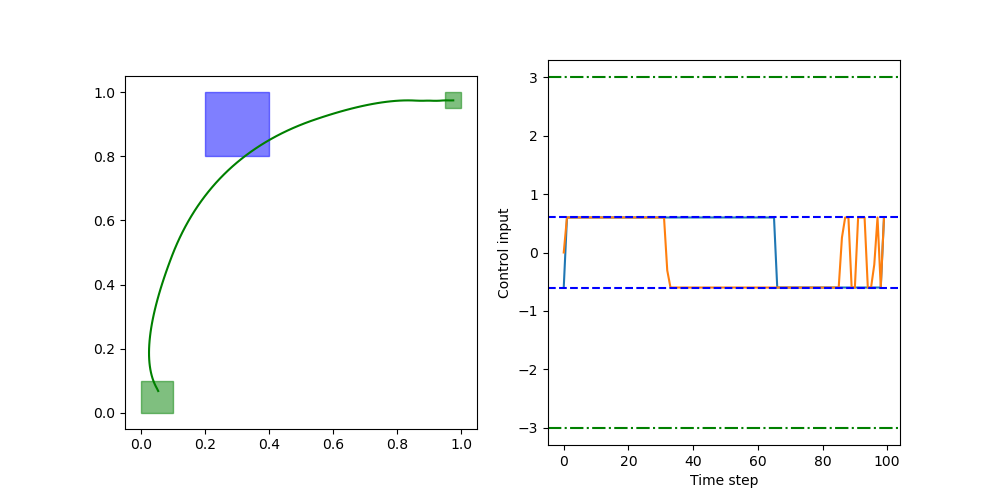
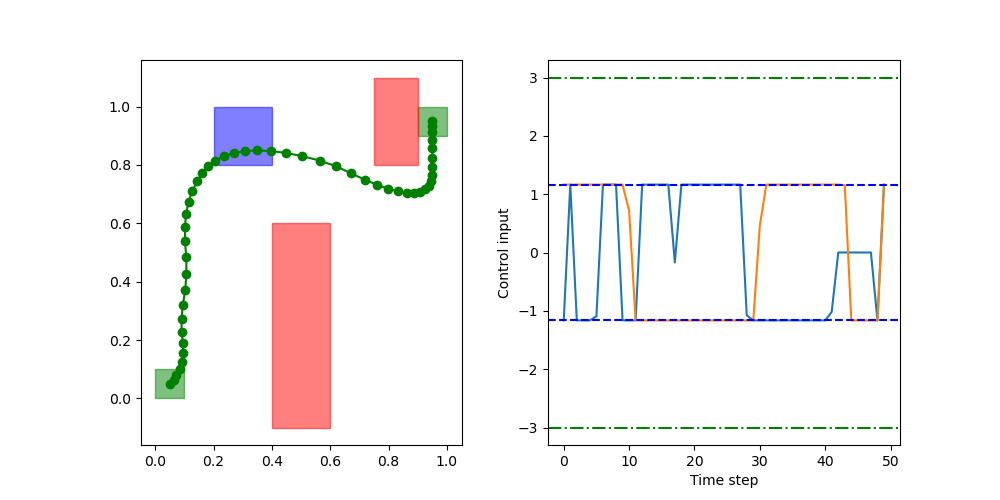
added negation for collision avoidance

diff --git a/Utilities/stl.py b/Utilities/stl.py
@@ -50,6 +50,9 @@ def quant_parse_operator(opt:gp.Model,pred:Pred, items):
     elif pred.type == "MU":
         quant_MU(opt,pred,items)
 
+    elif pred.type == "NEG":
+        quant_NEG(opt,pred,items)
+
     else:
         ValueError(f"Unknown operator {pred.type}")
 
@@ -59,7 +62,6 @@ def quant_AND(opt:gp.Model, pred:Pred, items):
                           name=f"rho_AND_{pred.print()}")
     try:
         rhos = [p.rho for p in pred.preds]
-        print(f"rhos: {rhos}")
         opt.addConstr(pred.rho == gp.min_(rhos), name=f"rho_AND_{pred.print()}")
     except Exception as e:
         print(f"Error in quant_AND: {e}")
@@ -99,7 +101,6 @@ def quant_ALWAYS(opt:gp.Model, pred:Pred, items):
                 check = in_interval(items, pred.I, i)
                 if check:
                     rhos.append(p.rhos[i])
-        print(f"rhos: {rhos}")
         opt.addConstr(pred.rho == gp.min_(rhos), name=f"min_rhos_G_{pred.print()}")
     except Exception as e:
         print(f"Error in quant_ALWAYS: {e}")
@@ -124,17 +125,49 @@ def quant_MU(opt:gp.Model, pred:Pred, items):
     print(f"quant_MU: {pred.print()}")
     N = items.x_vars.shape[0]
     N_faces = pred.preds[0].N_faces
+    dim = pred.preds[0].dim
 
     pred.rhos = opt.addMVar((N,), vtype=gp.GRB.CONTINUOUS, lb=-gp.GRB.INFINITY, ub=gp.GRB.INFINITY, 
                             name=f"rho_MU_{pred.print()}")
+    pred.rho_faces = []
     try:
         for i in range(N):
+            rho_faces = opt.addMVar((N_faces,), vtype=gp.GRB.CONTINUOUS, lb=-gp.GRB.INFINITY, ub=gp.GRB.INFINITY,
+                                    name=f"rho_faces_MU_{pred.print()}_i{i}")
+            pred.rho_faces.append(rho_faces)
             for face in range(N_faces):
-                for cp in [i, min(i+1,N-1)]:
-                    ineqs = pred.preds[0].H @ items.x_vars[cp,:] - pred.preds[0].b
-                    # c should be greater than 0 for satisfaction
-                    opt.addConstr(ineqs[face] <= -pred.rhos[i], name=f"rho_MU_{pred.print()}_i{cp}_face{face}")
+                # rho_cps = opt.addMVar((2,), vtype=gp.GRB.CONTINUOUS, lb=-gp.GRB.INFINITY, ub=gp.GRB.INFINITY,
+                #                       name=f"rho_cps_MU_{pred.print()}_i{i}_face{face}")
+                ineqs = pred.preds[0].H @ items.x_vars[i,:dim] - pred.preds[0].b
+                opt.addConstr(ineqs[face] == -rho_faces[face], name=f"rho_faces_MU_{pred.print()}_i{i}_face{face}")
+                # for idx, cp in enumerate([i, min(i+1,N-1)]):
+                #     ineqs = pred.preds[0].H @ items.x_vars[cp,:dim] - pred.preds[0].b
+                #     # c should be greater than 0 for satisfaction
+                #     opt.addConstr(ineqs[face] == -rho_cps[idx], name=f"rho_MU_{pred.print()}_i{cp}_face{face}")
+                # opt.addConstr(rho_faces[face] == gp.max_([rc for rc in rho_cps]), name=f"rho_faces_MU_{pred.print()}_i{i}_face{face}")
+                # opt.addConstrs((rho_faces[face] >= rho_cps[rc] for rc in range(2)), name=f"rho_faces_MU_{pred.print()}_i{i}_face{face}")
+            opt.addConstr(pred.rhos[i] == gp.min_([rf for rf in rho_faces]), name=f"rho_MU_{pred.print()}_i{i}")
+            # opt.addConstrs((pred.rhos[i] <= rho_faces[rf] for rf in range(N_faces)), name=f"rho_MU_{pred.print()}_i{i}")
+
     except Exception as e:
         print(f"Error in quant_MU: {e}")
     opt.update()
 
+def quant_NEG(opt:gp.Model, pred:Pred, items):
+    print(f"quant_NEG: {pred.print()}")
+    if pred.preds[0].type == "MU":
+        pred.rhos = opt.addMVar((items.x_vars.shape[0],), vtype=gp.GRB.CONTINUOUS, lb=-gp.GRB.INFINITY, ub=gp.GRB.INFINITY, 
+                                name=f"rho_NEG_{pred.print()}")
+        try:
+            for i in range(items.x_vars.shape[0]):
+                opt.addConstr(pred.rhos[i] == -pred.preds[0].rhos[i], name=f"rho_NEG_{pred.print()}_i{i}")
+        except Exception as e:
+            print(f"Error in quant_NEG: {e}")
+    else:
+        pred.rho = opt.addVar(vtype=gp.GRB.CONTINUOUS, lb=-gp.GRB.INFINITY, ub=gp.GRB.INFINITY, 
+                              name=f"rho_NEG_{pred.print()}")
+        try:
+            opt.addConstr(pred.rho == -pred.preds[0].rho, name=f"rho_NEG_{pred.print()}")
+        except Exception as e:
+            print(f"Error in quant_NEG: {e}")
+    opt.update()

diff --git a/Planning/main.py b/Planning/main.py
@@ -23,8 +23,8 @@ class OptProbItems:
         self.times = times
 
 # hyperparameters
-N = 100     # number of time steps
-dt = 0.1    # time step size
+N = 50     # number of time steps
+dt = 0.25    # time step size
 t0 = 0      # initial time
 tf = N*dt   # final time
 
@@ -35,10 +35,10 @@ sp_robot = FreeFlyer()
 
 # Specification
 X0 = HyperRectangle(np.array([0, 0, -0.1, -0.1]), np.array([0.1, 0.1, 0.1, 0.1]))
-Xf = HyperRectangle(np.array([0.95, 0.95, -0.1, -0.1]), np.array([1, 1, 0.1, 0.1]))
-XA = HyperRectangle(np.array([0.2, 0.8, -1, -1]), np.array([0.4, 1.0, 1, 1]))
-Obs = [HyperRectangle(np.array([0.4, -0.1, -np.inf, -np.inf]), np.array([0.6, 0.6, np.inf, np.inf])),
-       HyperRectangle(np.array([0.75, 0.5, -np.inf, -np.inf]), np.array([0.9, 1.1, np.inf, np.inf]))]
+Xf = HyperRectangle(np.array([0.90, 0.90, -0.1, -0.1]), np.array([1, 1, 0.1, 0.1]))
+XA = HyperRectangle(np.array([0.2, 0.8]), np.array([0.4, 1.0]))
+Obs = [HyperRectangle(np.array([0.4, -0.1]), np.array([0.6, 0.6])),
+       HyperRectangle(np.array([0.75, 0.8]), np.array([0.9, 1.1]))]
 World = HyperRectangle(np.array([0, 0, -bigM, -bigM]), np.array([1, 1, bigM, bigM]))
 
 phi = Pred("AND", preds=[
@@ -46,6 +46,8 @@ phi = Pred("AND", preds=[
     Pred("G", [tf,tf], preds=[Pred("MU", preds=[Polytope(Xf)])]),
     Pred("F", [t0,tf], preds=[Pred("MU", preds=[Polytope(XA)])]),
     Pred("G", [t0,tf], preds=[Pred("MU", preds=[Polytope(World)])]),
+    Pred("G", [t0,tf], preds=[Pred("NEG", preds=[Pred("MU", preds=[Polytope(Obs[0])])])]),
+    Pred("G", [t0,tf], preds=[Pred("NEG", preds=[Pred("MU", preds=[Polytope(Obs[1])])])])
 ])
 spec = Spec(phi, t0, tf)
 
@@ -81,6 +83,10 @@ if True:
         print(f"Optimal solution found")
         print(f"\nAlpha from solving Prob 1: {alpha_vars.X}")
         print(f"Spatial robustness: {spec.phi.rho.X}")
+        for pred in spec.phi.preds:
+            print(f"rhos: {pred.preds[-1].rhos.X }")
+        # print(f"rhos: {[rf.X for rf in spec.phi.preds[-1].preds[0].preds[0].rho_faces]}")
+        
         print(f"This is how much control is necessary to satisfy the specification")
     else:
         print(f"No optimal solution found")
@@ -103,10 +109,11 @@ t_sp = np.linspace(0, N*dt, N)
 # plot the trajectory
 fig, axs = plt.subplots(1,2, figsize=(10, 5))
 axs[0].plot(x_ff[:, 0], x_ff[:, 1], 'g-')
+axs[0].plot(x_ff[:, 0], x_ff[:, 1], 'go')
 X0.plot(axs[0], color='green', alpha=0.5)
 Xf.plot(axs[0], color='green', alpha=0.5)
 XA.plot(axs[0], color='blue', alpha=0.5)
-# [obs.plot(axs[0], color='red', alpha=0.5) for obs in Obs]
+[obs.plot(axs[0], color='red', alpha=0.5) for obs in Obs]
 axs[0].set_aspect('equal', adjustable='box')
 
 axs[1].plot(u_ff[:,0])

diff --git a/Utilities/helpers.py b/Utilities/helpers.py
@@ -95,7 +95,8 @@ class Polytope():
             self.b[i] = -rectangle.lower_bounds[i]
             self.H[i + self.dim, i] = 1
             self.b[i + self.dim] = rectangle.upper_bounds[i]
-        print(f"Polytope created with {self.N_faces} faces and dimension {self.dim}")
+        print(f"\nPolytope created with {self.N_faces} faces and dimension {self.dim}")
+        print(f"H: {self.H}, b: {self.b}")
 
     def print(self):
         return f"Area_[faces={self.N_faces}]"
